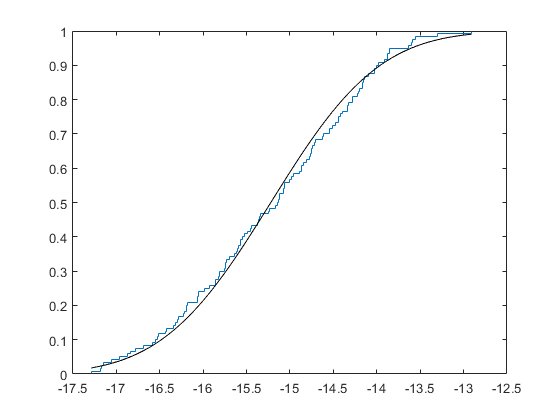
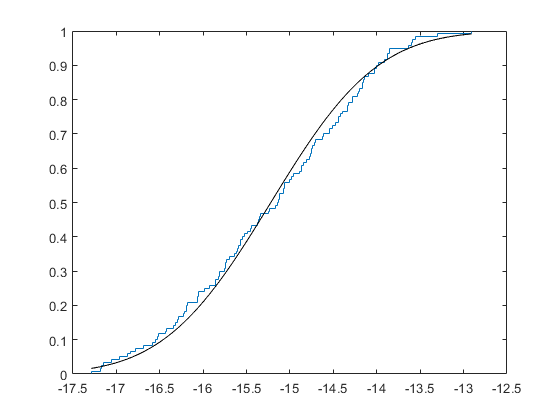
FIX: comments and graphic

diff --git a/lab_01/lab.m b/lab_01/lab.m
@@ -33,8 +33,8 @@ function main()
     fprintf("\nг)Группировка значений выборки в m = [log2 n] + 2 интервала: m = %f\n", m);
     
     % Разбиение выборки на интервалы от min до max, с помощью BinLimits
-    % объединяем только те значения, которые находятся в интервале от мин
-    % до макс
+    % объединяем только те значения, которые находятся в интервале от
+    % минимума до максимума
     [counts, edges] = histcounts(X, m, 'BinLimits', [min(X), max(X)]);
     
     for i = 1: length(counts)
@@ -48,24 +48,31 @@ function main()
     
     hold on; % Продолжаем работать с той же системой
     
-    % График функции плотности рапределения вероятностей нормальной случайно величины
+    % График функции плотности рапределения вероятностей нормальной случайной величины
     delta = R/m;
     sigma = sqrt(s2);
     Xn = min(X):delta/20:max(X);
     Y = normpdf(Xn, mu, sigma);
     plot(Xn, Y, 'blue');
     
-    % е) График распределения сормальной случайной величины
+    % e)
     figure;
     [yy, xx] = ecdf(X);
     stairs(xx, yy);
     
+%     uniques = unique(X);
+%     count = histcounts(X, uniques);
+%     for i = 2 : (length(count))
+%         count(i) = count(i) + count(i - 1);
+%     end
+%     count = [0 count];
+%     stairs(uniques, count / length(X));
+    
     hold on;
     
-    % График эмпирической функции распределения нормальной случайной величины
     delta = R/m;
     Xn = min(X):delta/20:max(X);
-    Y = 1/2 * (1 + erf((Xn - mu) / sqrt(2*s2))); 
+    Y = normcdf(Xn, mu, s2);
     plot(Xn, Y, 'black');
     
 end

diff --git a/lab_02/lab.m b/lab_02/lab.m
@@ -38,7 +38,7 @@ function main()
     fprintf('s2Bot (нижняя граница доверительного интервала для дисперсии) = %.3f\n', s2Bot);
     fprintf('s2Top (верхняя граница -//-) = %.3f\n', s2Top);
     
-    % Создание массивов точченых оценок
+    % Создание массивов точечных оценок
     muArray = zeros(1, n);
     s2Array = zeros(1, n);
     % Создание массивов границ доверительных интервалов
